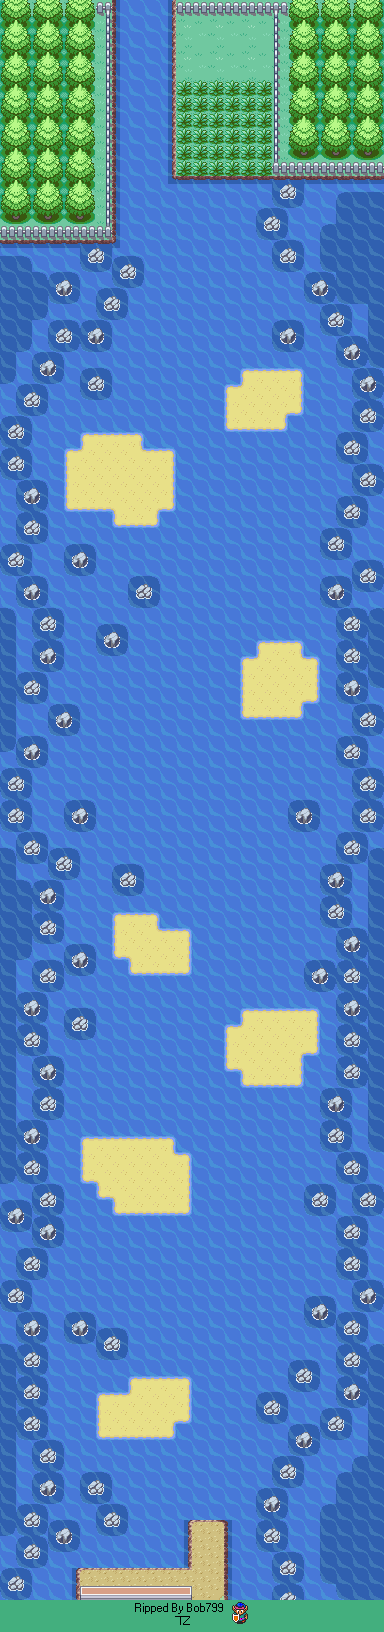
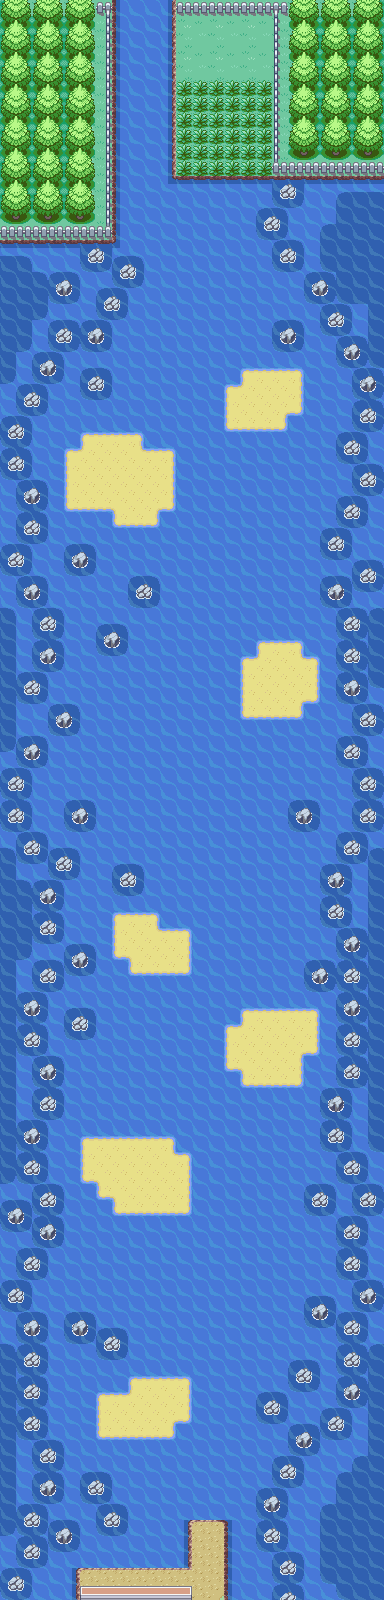
Map data structure & doodads

Changed region(s): [[0.0, 0.0, 1.0, 1.0], [0.2812, 0.5312, 0.5, 0.625]]

diff --git a/main.py b/main.py
@@ -1,9 +1,11 @@
+from math import floor
 import os
 
 import pygame as pg
 
 from area import Area
 from color import BLACK, GBA_DIMS, GRAY, TRANSPARENT
+from doodad import Doodad
 from trainer import Trainer
 
 
@@ -20,7 +22,7 @@ def get_camera_offset(area: Area,
         screen_center[1] - trainer_coords[1],
         GBA_DIMS[1] - area.dimensions()[1], 0)
 
-    return (x_from_center, y_from_center)
+    return (floor(x_from_center), floor(y_from_center))
 
 
 def get_dpad_input(dpad: list[bool]):
@@ -59,6 +61,20 @@ def handle_keyup(dpad: list[int], key: int) -> list[int]:
     return dpad
 
 
+def sort_entites_for_display(doodads: list[Doodad],
+                             trainer: Trainer) -> list:
+    # Doodads are already sorted by Y value
+    behind_trainer = [d for d in doodads if d.location.y < trainer.location.y]
+    in_front_of_trainer = [d for d in doodads \
+        if d.location.y >= trainer.location.y]
+
+    for doodad in doodads:
+        if doodad.show_in_front_of_trainer and doodad.colliding_with(trainer.rect):
+            doodad.draw_foreground_image = True
+
+    return behind_trainer + [trainer] + in_front_of_trainer
+
+
 def update_screen(screen, small_screen, area, trainer, debug):
     screen.fill(BLACK)
     small_screen.fill(GRAY)
@@ -67,14 +83,20 @@ def update_screen(screen, small_screen, area, trainer, debug):
 
     small_screen.blit(area.image, camera_offset)
 
-    for entity in [trainer]:
-        small_screen.blit(entity.image,
-                          entity.coords() + area.offset + camera_offset)
+    display_list = sort_entites_for_display(area.doodads, trainer)
 
-    location = debug.render(
-        f'{camera_offset[0]}', False, BLACK)
+    for entity in display_list:
+        x = entity.coords()[0] + camera_offset[0]
+        y = entity.coords()[1] + camera_offset[1]
+        small_screen.blit(entity.image, (x, y))
 
-    small_screen.blit(location, (180, 20))
+    for doodad in [d for d in area.doodads if d.draw_foreground_image]:
+        x = entity.coords()[0] + camera_offset[0]
+        y = entity.coords()[1] + camera_offset[1]
+        small_screen.blit(doodad.foreground_image, (x, y))
+
+    #location = debug.render(f'{camera_offset[0]}', False, BLACK)
+    #small_screen.blit(location, (180, 20))
 
     pg.transform.scale(small_screen, (pg.display.get_window_size()), screen)
     pg.display.flip()
@@ -88,7 +110,7 @@ def main():
     dpad = []
 
     area = Area('Pallet Town')
-    trainer = Trainer(location=(6, 8))
+    trainer = Trainer(location=area.start_location)
 
     debug = pg.font.Font(os.path.join('lib', 'CompaqThin.ttf'), 12)
 

diff --git a/area.py b/area.py
@@ -1,16 +1,23 @@
+import json
 import os
 
 import pygame as pg
 from pygame.math import Vector2
+
+from color import TRANSPARENT
+from doodad import Doodad
 
 
 class Area:
     def __init__(self, name: str):
         self.name = name
 
-        self.image    = None
-        self.offset   = Vector2(1, -4)
-        self.passable = None
+        self.doodads        = None
+        self.formatted_name = self.name.lower().replace(' ', '_')
+        self.image          = None
+        self.map_data       = {}
+        self.passable       = None
+        self.start_location = Vector2(0, 0)
 
         self.load_resources()
 
@@ -20,15 +27,38 @@ class Area:
     def is_passable(self, location: Vector2):
         return bool(self.passable[int(location.x)][int(location.y)])
 
-    def load_resources(self):
-        formatted_name = self.name.lower().replace(' ', '_')
+    def load_base_map(self):
         self.image = pg.image.load(
-            os.path.join('lib', 'maps', f'{formatted_name}.png'))
+            os.path.join('lib', 'maps', f'{self.formatted_name}.png'))
+
+    def load_doodads(self):
+        self.doodads = []
+
+        for doodad in self.map_data['doodads']:
+            for location in doodad['locations']:
+                self.doodads.append(Doodad(doodad['type'], location,
+                                           doodad['showInFrontOfTrainer']))
+
+        self.doodads.sort(key=lambda d: d.location.y)
+
+    def load_map_data(self):
+        with open(os.path.join('data', 'maps.json')) as f:
+            data = json.load(f)
+
+        self.map_data = next(
+            m for m in data['areas'] if m['name'] == self.name)
+
+    def load_resources(self):
+        self.load_map_data()
+        self.load_base_map()
+        self.load_doodads()
+
+        self.start_location = Vector2(self.map_data['startLocation'])
 
         # Boolean 2D array, such that each x, y
         # point is passable (1) or not (0)
-        filename = f'{formatted_name}_passable.png'
+        filename = f'{self.formatted_name}_passable.png'
         array = pg.surfarray.pixels2d(
             pg.image.load(os.path.join('lib', 'maps', filename)).convert(16))
-        array.flat = [bool(n) for n in array.flat]
-        self.passable = array
+        array.flat = [bool(n) for n in array.flat]  # bool(n) works here
+        self.passable = array                       # because black is 0

diff --git a/doodad.py b/doodad.py
@@ -1,0 +1,45 @@
+import pygame as pg
+from pygame.math import Vector2
+
+import os
+
+from color import TRANSPARENT
+
+
+class Doodad(pg.sprite.Sprite):
+    def __init__(self, doodad_type: str, location: tuple[int],
+                 show_in_front_of_trainer: bool):
+        pg.sprite.Sprite.__init__(self)
+
+        self.location                 = Vector2(location)  # 16px tile grid
+        self.draw_foreground_image    = False              # location
+        self.show_in_front_of_trainer = show_in_front_of_trainer
+
+        self.load_image(doodad_type)
+
+    def center(self) -> tuple[float]:
+        return (self.location.x * 16 + self.rect.width  / 2,
+                self.location.y * 16 - self.rect.height / 2)
+
+    def colliding_with(self, rect) -> bool:
+        return self.rect.colliderect(rect)
+
+    def coords(self) -> tuple[float]:
+        return (self.location.x * 16, self.location.y * 16)
+
+    def draw(self):
+        pass
+
+    def load_image(self, doodad_type: str):
+        self.image = pg.image.load(os.path.join(
+                'lib', 'doodads', f'{doodad_type}.png')).convert(16)
+        self.image.set_colorkey(TRANSPARENT)
+        self.rect = self.image.get_rect()
+
+        if self.show_in_front_of_trainer:
+            self.foreground_image = pg.Surface((self.rect.width, 16))
+            self.foreground_image.blit(self.image, (0, 0))
+            self.foreground_image.set_colorkey(TRANSPARENT)
+
+    def update(self):
+        self.draw()

diff --git a/trainer.py b/trainer.py
@@ -7,10 +7,10 @@ from color import TRANSPARENT
 
 
 class Trainer(pg.sprite.Sprite):
-    def __init__(self, location: tuple[int]):
+    def __init__(self, location: Vector2):
         pg.sprite.Sprite.__init__(self)
 
-        self.location = Vector2(location)  # 16px tile grid location
+        self.location = location  # 16px tile grid location
 
         self.action          = 'stand'
         self.facing          = 1  # Up, Down, Left, Right
@@ -38,11 +38,13 @@ class Trainer(pg.sprite.Sprite):
                 self.frame = 0
 
     def center(self) -> tuple[float]:
+        # Add 1 to Y location because trainer sprite is 2 tiles tall
         return (self.location.x * 16 + self.rect.width  / 2,
-                self.location.y * 16 - self.rect.height / 2)
+                (self.location.y - 1) * 16 - self.rect.height / 2)
 
     def coords(self) -> tuple[float]:
-        return (self.location.x * 16, self.location.y * 16)
+        # Add 1 to Y location because trainer sprite is 2 tiles tall
+        return (self.location.x * 16, (self.location.y - 1) * 16)
 
     def draw(self):
         if self.action == 'walk':
